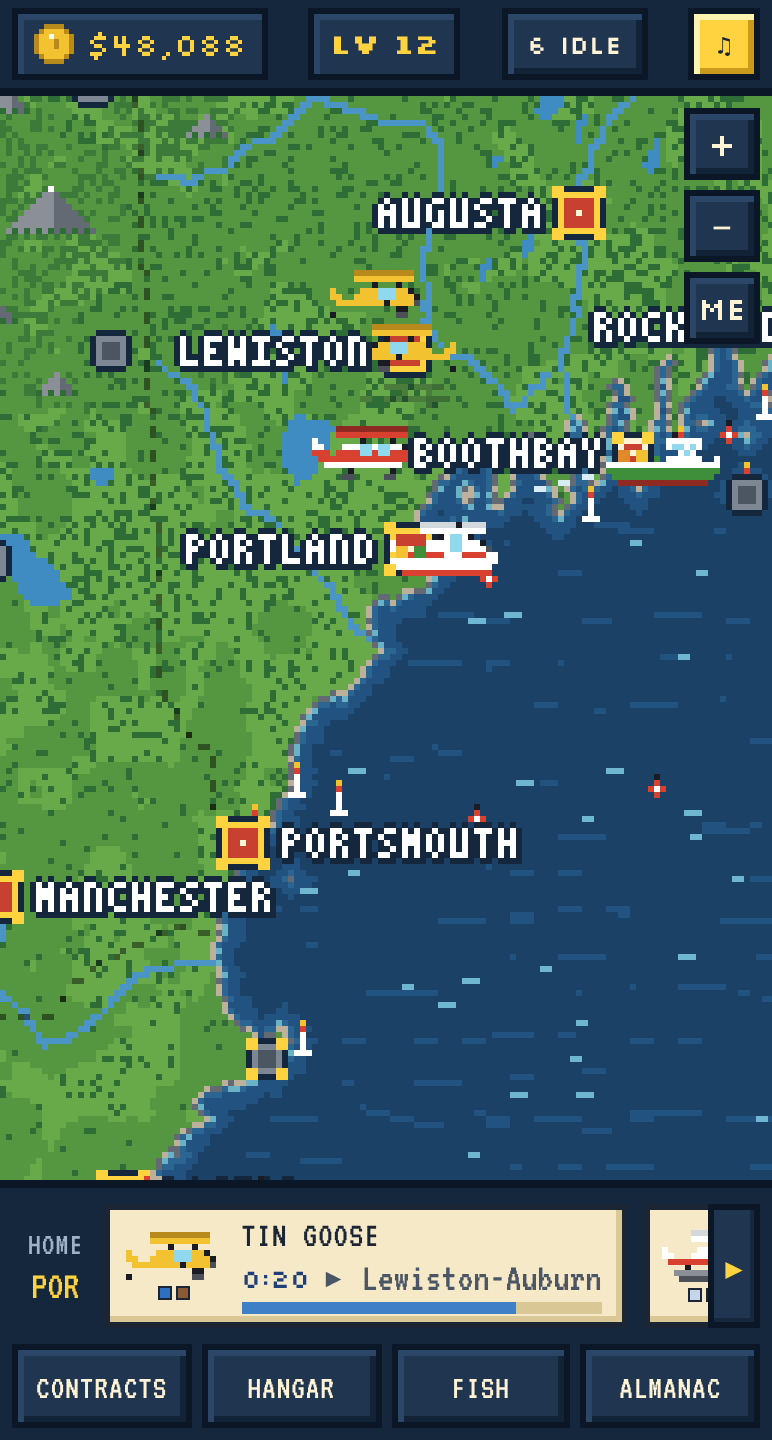
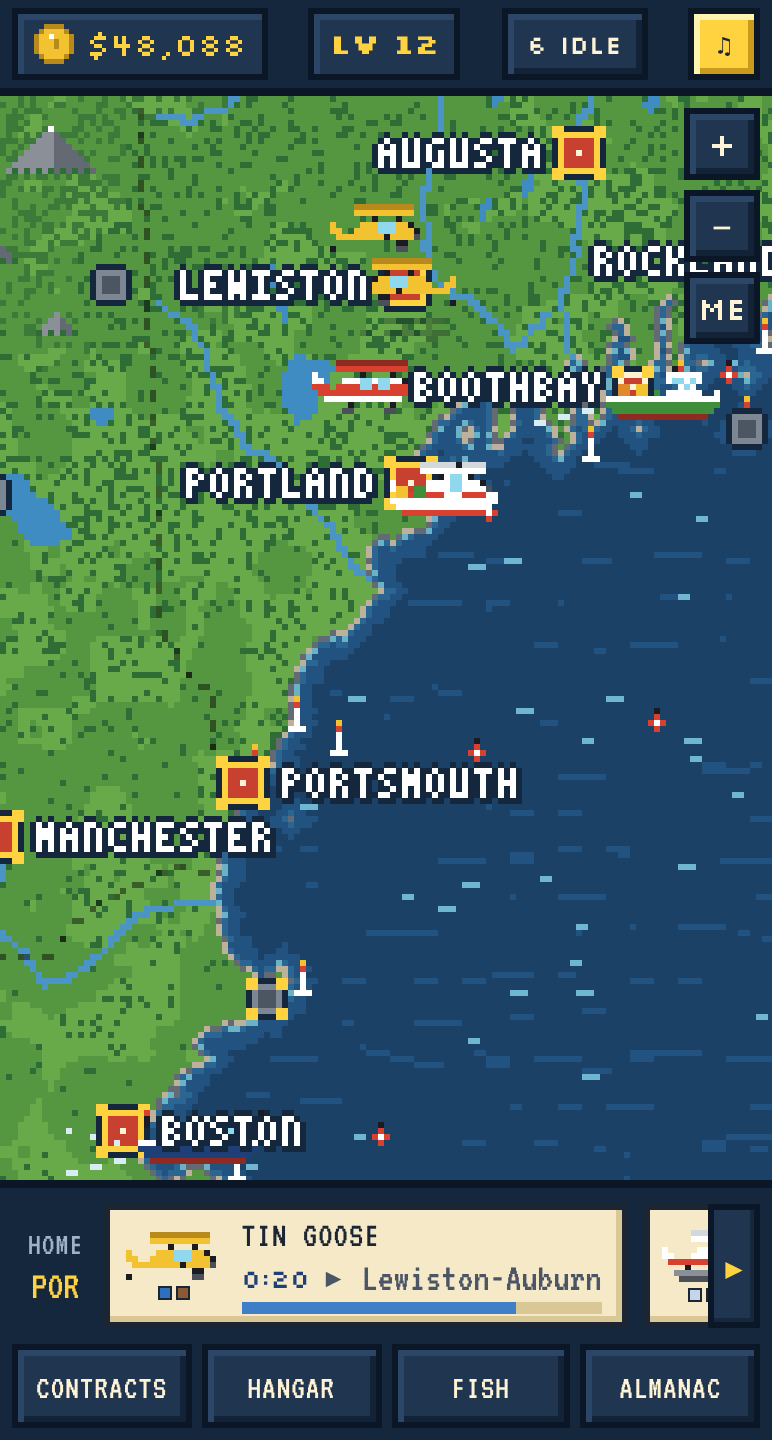
A big phone gets a bigger game; the map fits its frame from the first paint
- Big phones: the phone layout is drawn for a screen about 400 CSS px
  across. On a phone more than 430 across (large Android phones at a small
  display size; the one this was reported on is 462) it came out with the
  same small type and more empty space. There the page is now laid out 412
  wide and the browser scales it up to fill the screen, about 12% at 462.
  Portrait only. Ordinary phones, tablets and desktops are untouched.
  New test: test/bigphone.py; 462x904 is an audited size, here and in CI.
- Map: the canvas was sized once at boot, before the fleet strip had
  filled in under it, so on a phone it was about 60 px taller than its
  frame and the bottom of the map sat hidden behind the strip until
  something resized the window (reported by email, confirmed at six sizes).
  The canvas is now re-fitted whenever its frame changes size. The layout
  audit skipped the map and its frame, which is how this went unnoticed;
  it checks the fit now and fails on the previous build.
- Text does not get resized by the browser (text-size-adjust: 100%).

Claude-Session: https://claude.ai/code/session_01YATR2iS52dRzHfx4prMQB5

diff --git a/index.html b/index.html
@@ -3,6 +3,27 @@
 <head>
 <meta charset="utf-8">
 <meta name="viewport" content="width=device-width, initial-scale=1">
+<script>
+// A big phone. The phone layout is drawn for a screen about 400 CSS pixels across; on one that is 450 or more (the large Android
+// phones, at a small display size) it came out with the same small type and more empty space around it. There the page is laid
+// out 412 wide and the browser scales it up to fill the screen, so everything is bigger in proportion. Portrait only; a tablet,
+// a desktop window and an ordinary phone are left exactly as they were. screen.width is used, not the window's width, because
+// the window's width is what this changes.
+(function () {
+  try {
+    var m = document.querySelector('meta[name=viewport]');
+    var fit = function () {
+      var s = Math.min(screen.width, screen.height),
+        big = matchMedia('(pointer:coarse)').matches && matchMedia('(orientation:portrait)').matches && s > 430 && s <= 540,
+        want = big ? 'width=412' : 'width=device-width, initial-scale=1';
+      if (m.getAttribute('content') !== want) m.setAttribute('content', want);
+    };
+    fit();
+    window.addEventListener('orientationchange', fit);
+    matchMedia('(orientation:portrait)').addEventListener('change', fit);
+  } catch (e) {}
+})();
+</script>
 <title>Pocket Maine - Air and Sea</title>
 <meta name="description" content="A cozy pixel-art transport tycoon in the browser. Fly bush planes, run ferries and lobster boats, and open 54 ports from Maine across New England. Free.">
 <meta name="author" content="James Cupps">
@@ -93,6 +114,8 @@
 }
 html,
 body {
+  -webkit-text-size-adjust: 100%;
+  text-size-adjust: 100%;
   touch-action: manipulation;
   margin: 0;
   height: 100%;
@@ -14650,9 +14673,17 @@ function startView() {
   const ids = PORTS.filter(p => G.ports[p.id].open).map(p => p.id);
   fitTo(ids, SMALL() ? 2 : 3, bevPad());
 }
+// The map canvas is sized to its frame. The frame changes after boot (the fleet strip fills in under it and takes its height
+// from the map), so this runs whenever the frame's size does, not only when the window's does: sized once at boot, the canvas
+// was some 60 px taller than its frame on a phone and the bottom of the map sat hidden behind the fleet strip.
 function layout() {
-  const w = $('mapwrap');
-  resizeView(w.clientWidth, w.clientHeight);
+  const w = $('mapwrap'),
+    cw = w.clientWidth,
+    ch = w.clientHeight;
+  if (!cw || !ch || (w._lw === cw && w._lh === ch)) return;
+  w._lw = cw;
+  w._lh = ch;
+  resizeView(cw, ch);
 }
 /* ---------- screens ----------
    map   : the full map, fleet bar along the bottom
@@ -19475,6 +19506,8 @@ function boot() {
   initWorld();
   VIEW.canvas = $('map');
   layout();
+  requestAnimationFrame(layout);
+  if (window.ResizeObserver) new ResizeObserver(() => layout()).observe($('mapwrap'));
   UI.hasSave = loadGame(STORE);
   if (!UI.hasSave) {
     UI.badSave = keepUnreadable(STORE);

diff --git a/src/index.html b/src/index.html
@@ -3,6 +3,27 @@
 <head>
 <meta charset="utf-8">
 <meta name="viewport" content="width=device-width, initial-scale=1">
+<script>
+// A big phone. The phone layout is drawn for a screen about 400 CSS pixels across; on one that is 450 or more (the large Android
+// phones, at a small display size) it came out with the same small type and more empty space around it. There the page is laid
+// out 412 wide and the browser scales it up to fill the screen, so everything is bigger in proportion. Portrait only; a tablet,
+// a desktop window and an ordinary phone are left exactly as they were. screen.width is used, not the window's width, because
+// the window's width is what this changes.
+(function () {
+  try {
+    var m = document.querySelector('meta[name=viewport]');
+    var fit = function () {
+      var s = Math.min(screen.width, screen.height),
+        big = matchMedia('(pointer:coarse)').matches && matchMedia('(orientation:portrait)').matches && s > 430 && s <= 540,
+        want = big ? 'width=412' : 'width=device-width, initial-scale=1';
+      if (m.getAttribute('content') !== want) m.setAttribute('content', want);
+    };
+    fit();
+    window.addEventListener('orientationchange', fit);
+    matchMedia('(orientation:portrait)').addEventListener('change', fit);
+  } catch (e) {}
+})();
+</script>
 <title>Pocket Maine - Air and Sea</title>
 <meta name="description" content="A cozy pixel-art transport tycoon in the browser. Fly bush planes, run ferries and lobster boats, and open 54 ports from Maine across New England. Free.">
 <meta name="author" content="James Cupps">

diff --git a/src/06_ui.js b/src/06_ui.js
@@ -914,9 +914,17 @@ function startView() {
   const ids = PORTS.filter(p => G.ports[p.id].open).map(p => p.id);
   fitTo(ids, SMALL() ? 2 : 3, bevPad());
 }
+// The map canvas is sized to its frame. The frame changes after boot (the fleet strip fills in under it and takes its height
+// from the map), so this runs whenever the frame's size does, not only when the window's does: sized once at boot, the canvas
+// was some 60 px taller than its frame on a phone and the bottom of the map sat hidden behind the fleet strip.
 function layout() {
-  const w = $('mapwrap');
-  resizeView(w.clientWidth, w.clientHeight);
+  const w = $('mapwrap'),
+    cw = w.clientWidth,
+    ch = w.clientHeight;
+  if (!cw || !ch || (w._lw === cw && w._lh === ch)) return;
+  w._lw = cw;
+  w._lh = ch;
+  resizeView(cw, ch);
 }
 /* ---------- screens ----------
    map   : the full map, fleet bar along the bottom

diff --git a/src/07_main.js b/src/07_main.js
@@ -124,6 +124,8 @@ function boot() {
   initWorld();
   VIEW.canvas = $('map');
   layout();
+  requestAnimationFrame(layout);
+  if (window.ResizeObserver) new ResizeObserver(() => layout()).observe($('mapwrap'));
   UI.hasSave = loadGame(STORE);
   if (!UI.hasSave) {
     UI.badSave = keepUnreadable(STORE);

diff --git a/src/style.css b/src/style.css
@@ -25,6 +25,8 @@
 }
 html,
 body {
+  -webkit-text-size-adjust: 100%;
+  text-size-adjust: 100%;
   touch-action: manipulation;
   margin: 0;
   height: 100%;

diff --git a/test/audit.py b/test/audit.py
@@ -6,6 +6,9 @@ AUDIT = """() => { const out=[]; const vw=innerWidth, vh=innerHeight, FONT_MIN=1
   const scrollers=new Set(['fleet','sbody','scols','sleft','mbox','sheetwrap','tmsg']);
   const ignoreIds=new Set(['mapwrap','scenebox','app','stage','daybar','xpbar','splash','modal','sheet','scene','map','dock','main']);
   const desc=el=>{ let s=el.tagName.toLowerCase()+(el.id?'#'+el.id:'')+(el.className&&typeof el.className==='string'?'.'+el.className.trim().split(/\\s+/).join('.'):''); const t=(el.textContent||'').trim().replace(/\\s+/g,' ').slice(0,28); return s+(t?' "'+t+'"':''); };
+  // the map canvas fits its frame: it may run a pixel or two over (it is cut to whole map pixels), never a strip of the map hidden.
+  // (The map and its frame are skipped by the checks below, which is how a canvas 60 px too tall went unnoticed.)
+  { const fr=document.getElementById('mapwrap').getBoundingClientRect(), r=document.getElementById('map').getBoundingClientRect(); if(fr.width>1&&fr.height>1&&(r.bottom-fr.bottom>4||r.right-fr.right>4||fr.bottom-r.bottom>1||fr.right-r.right>1)) out.push('MAP DOES NOT FIT ITS FRAME by '+Math.round(r.right-fr.right)+','+Math.round(r.bottom-fr.bottom)+' px'); }
   const root=document.querySelector('#modal.show')||document.getElementById('app');
   root.querySelectorAll('*').forEach(el=>{ const cs=getComputedStyle(el); if(cs.display==='none'||cs.visibility==='hidden') return; const r=el.getBoundingClientRect(); if(r.width<1||r.height<1) return;
     if(el.closest('#sheetwrap:not(.show)')||el.closest('#tip')||el.closest('#toasts')||el.closest('#banner')||el.closest('#splash')) return;
@@ -25,7 +28,7 @@ LOADVIS = """() => { const b=document.querySelector('#sbody .jrow .btn.load'); i
 ROWVIS = """() => { const f=document.getElementById('sfoot').getBoundingClientRect(), h=document.getElementById('shead').getBoundingClientRect(); const note=document.querySelector('#sbody .note'); if(note){ const q=note.getBoundingClientRect(); if(q.top>=h.bottom-1 && q.bottom<=f.top+1) return 'ok the board says why it is empty'; }
   const rows=[...document.querySelectorAll('#sbody .jrow')]; if(!rows.length) return 'no rows';
   const vis=rows.filter(x=>{const q=x.getBoundingClientRect(); return q.top>=h.bottom-1 && q.bottom<=f.top+1;}).length; return vis ? 'ok '+vis+' rows visible' : 'NO JOB ROW VISIBLE (first row at y='+Math.round(rows[0].getBoundingClientRect().top)+', footer starts '+Math.round(f.top)+')'; }"""
-sizes=[(386,630,3),(360,640,3),(393,759,3),(390,844,3),(412,915,2.6),(768,1024,2),(1024,768,1),(1280,720,1),(1440,900,1),(1920,1080,1)]
+sizes=[(386,630,3),(360,640,3),(393,759,3),(390,844,3),(462,904,3),(412,915,2.6),(768,1024,2),(1024,768,1),(1280,720,1),(1440,900,1),(1920,1080,1)]
 if len(sys.argv)>1: sizes=[tuple(float(v) if '.' in v else int(v) for v in a.split('x')) for a in sys.argv[1:]]
 total=0
 with sync_playwright() as p:

diff --git a/test/bigphone.py b/test/bigphone.py
@@ -1,0 +1,24 @@
+# A big phone (more than 430 CSS px across) gets the phone layout drawn 412 wide and scaled up to fill the screen;
+# an ordinary phone, the same phone on its side, a tablet and a desktop are left exactly as they were.
+import sys, os
+from playwright.sync_api import sync_playwright
+probs=[]
+def expect(c,m):
+    print(('  ok  ' if c else '  !!! ')+m)
+    if not c: probs.append(m)
+with sync_playwright() as p:
+    b=p.chromium.launch(executable_path=os.environ.get('CHROME','/usr/bin/google-chrome'), args=['--no-sandbox'])
+    R="()=>({meta:document.querySelector('meta[name=viewport]').content, w:innerWidth, h:innerHeight, scale:+visualViewport.scale.toFixed(3), sw:document.documentElement.scrollWidth, m:(()=>{ const x=document.getElementById('mbox'); return x.scrollHeight<=x.clientHeight+1; })(), start:(()=>{ const r=document.querySelector('#mbox .acts .btn').getBoundingClientRect(); return r.top>=0&&r.bottom<=innerHeight; })() })"
+    for (W,H,D,mob,big,label) in ((462,904,3,True,True,'a big phone'),(448,997,3,True,True,'another big phone'),(393,759,3,True,False,'an ordinary phone'),(412,915,2.6,True,False,'a 412 px phone'),(904,462,3,True,False,'the big phone on its side'),(768,1024,2,True,False,'a tablet'),(1280,720,1,False,False,'a desktop')):
+        ctx=b.new_context(viewport={'width':W,'height':H}, screen={'width':W,'height':H}, device_scale_factor=D, has_touch=mob, is_mobile=mob); pg=ctx.new_page(); errs=[]; pg.on('pageerror', lambda e: errs.append(str(e)[:200]))
+        pg.goto('file://'+os.path.abspath('index.html')); pg.wait_for_timeout(1000); r=pg.evaluate(R)
+        if big:
+            expect(r['w']==412 and abs(r['scale']-W/412)<0.01 and r['sw']==412, '%s (%dx%d): laid out 412 wide and scaled up %.2f times, nothing off the side'%(label,W,H,r['scale']))
+            expect(r['m'] and r['start'], '%s: the title fits and START is in view'%label)
+        else:
+            expect(r['w']==W and r['scale']==1 and 'device-width' in r['meta'], '%s (%dx%d): left as it was'%(label,W,H))
+        if errs: probs.append('%s: page errors %s'%(label,errs[:2]))
+        ctx.close()
+    b.close()
+print('PROBLEMS:',len(probs)); [print('  ',x) for x in probs]
+sys.exit(1 if probs else 0)

diff --git a/README.md b/README.md
@@ -112,7 +112,8 @@ It needs only Python 3. The three fonts in `fonts/` are inlined into the page.
 - **A long fleet can be reached with a mouse.** The fleet strip scrolls sideways; the wheel turns it, and an arrow stands at whichever end has more to show, so the craft at the far end and + FLEET SLOT after them are never out of reach.
 - **Fog and thunderstorms are the exception.** Summer fog comes on about a fifth of the weather rolls (it was over half, and sat on the coast most of the season) and thunderheads on about an eighth (was over a quarter). Gales, nor'easters and snow squalls are as they were. A new game has ten clear minutes first.
 - **Every screen says what it is for, once.** The first time a tab or section is opened (the craft's gear, looks, crew, standing run and storage; a yard's parts, build, storage, new craft and town; the fishing tab; a port not yet opened; the Almanac) Aunt Bev puts a short card at its top. GOT IT puts it away for good, and so does leaving after it has been up long enough to read; a quick look does not use it up. LESSONS: OFF silences them.
-- **A dialog's buttons are always in view.** On a phone the title keeps its first four points and leaves the rest to the lessons, the start cards stack so all three fit, and whatever a dialog holds its buttons stay at the bottom of the box. The layout audit checks it at 393 x 759, the size of an iPhone with the game on its home screen.
+- **A dialog's buttons are always in view.** On a phone the title keeps its first four points and leaves the rest to the lessons, the start cards stack so all three fit, and whatever a dialog holds its buttons stay at the bottom of the box. The layout audit checks it at 393 x 759 and 462 x 904.
+- **A big phone gets a bigger game, not more empty space.** The phone layout is drawn for a screen about 400 CSS px across. On a phone wider than 430 (the large Android phones at a small display size) the page is laid out 412 wide and the browser scales it up to fill the screen, about 12% on a 462 px phone. Portrait only; ordinary phones, tablets and desktops are untouched.
 - **Nothing under 12 px, and one thing over the game at a time.** On a phone wider than 360 px the labels are a size or two bigger again: headings, tabs, item titles and small buttons, tags and counters. Small labels are set in the taller body face at 16 px; buttons, tabs and headings keep the pixel face at 12 px or more. A banner has the screen to itself, lesson bubbles step back for it, and notes take turns under the top bar (one on a phone, two at a desk) and move clear of a lesson.
 - **The dice are seeded.** Every roll in the rules comes from one generator whose state is kept in the save, so a game can be replayed from its seed: `SEED=7 node test/rules.js`, `SEED=7 node test/pace.js 4 casco 8`.
 
@@ -137,6 +138,7 @@ python3 test/depth.py 386x630x3                # goods, a request, a fit, a thre
 node test/pace.js 8 casco 8                    # a simulated player for eight hours: levels, money, ports and fleet over time; fails if a level arrives outside its bounds
 python3 test/overlays.py 386x630x3             # a banner, three notes and a lesson at once: who shows, where, and in what order
 python3 test/tips.py 386x630x3                 # the card that says what a screen is for: shown once, kept away once read, off with the lessons
+python3 test/bigphone.py                       # a big phone is laid out 412 wide and scaled up; everything else is left alone
 python3 test/home.py 386x630x3                 # home ports: the row on the CRAFT tab, SEND HOME, HOME HERE, the strip grouped by home
 python3 test/fleet.py 1280x720x1               # thirteen craft: the wheel and the arrows reach the far end and + FLEET SLOT
 python3 test/away.py 386x630x3                 # hides the page mid-trip, then closes and reopens it: a real wait, two hours, twenty hours; then the BRISK pace
